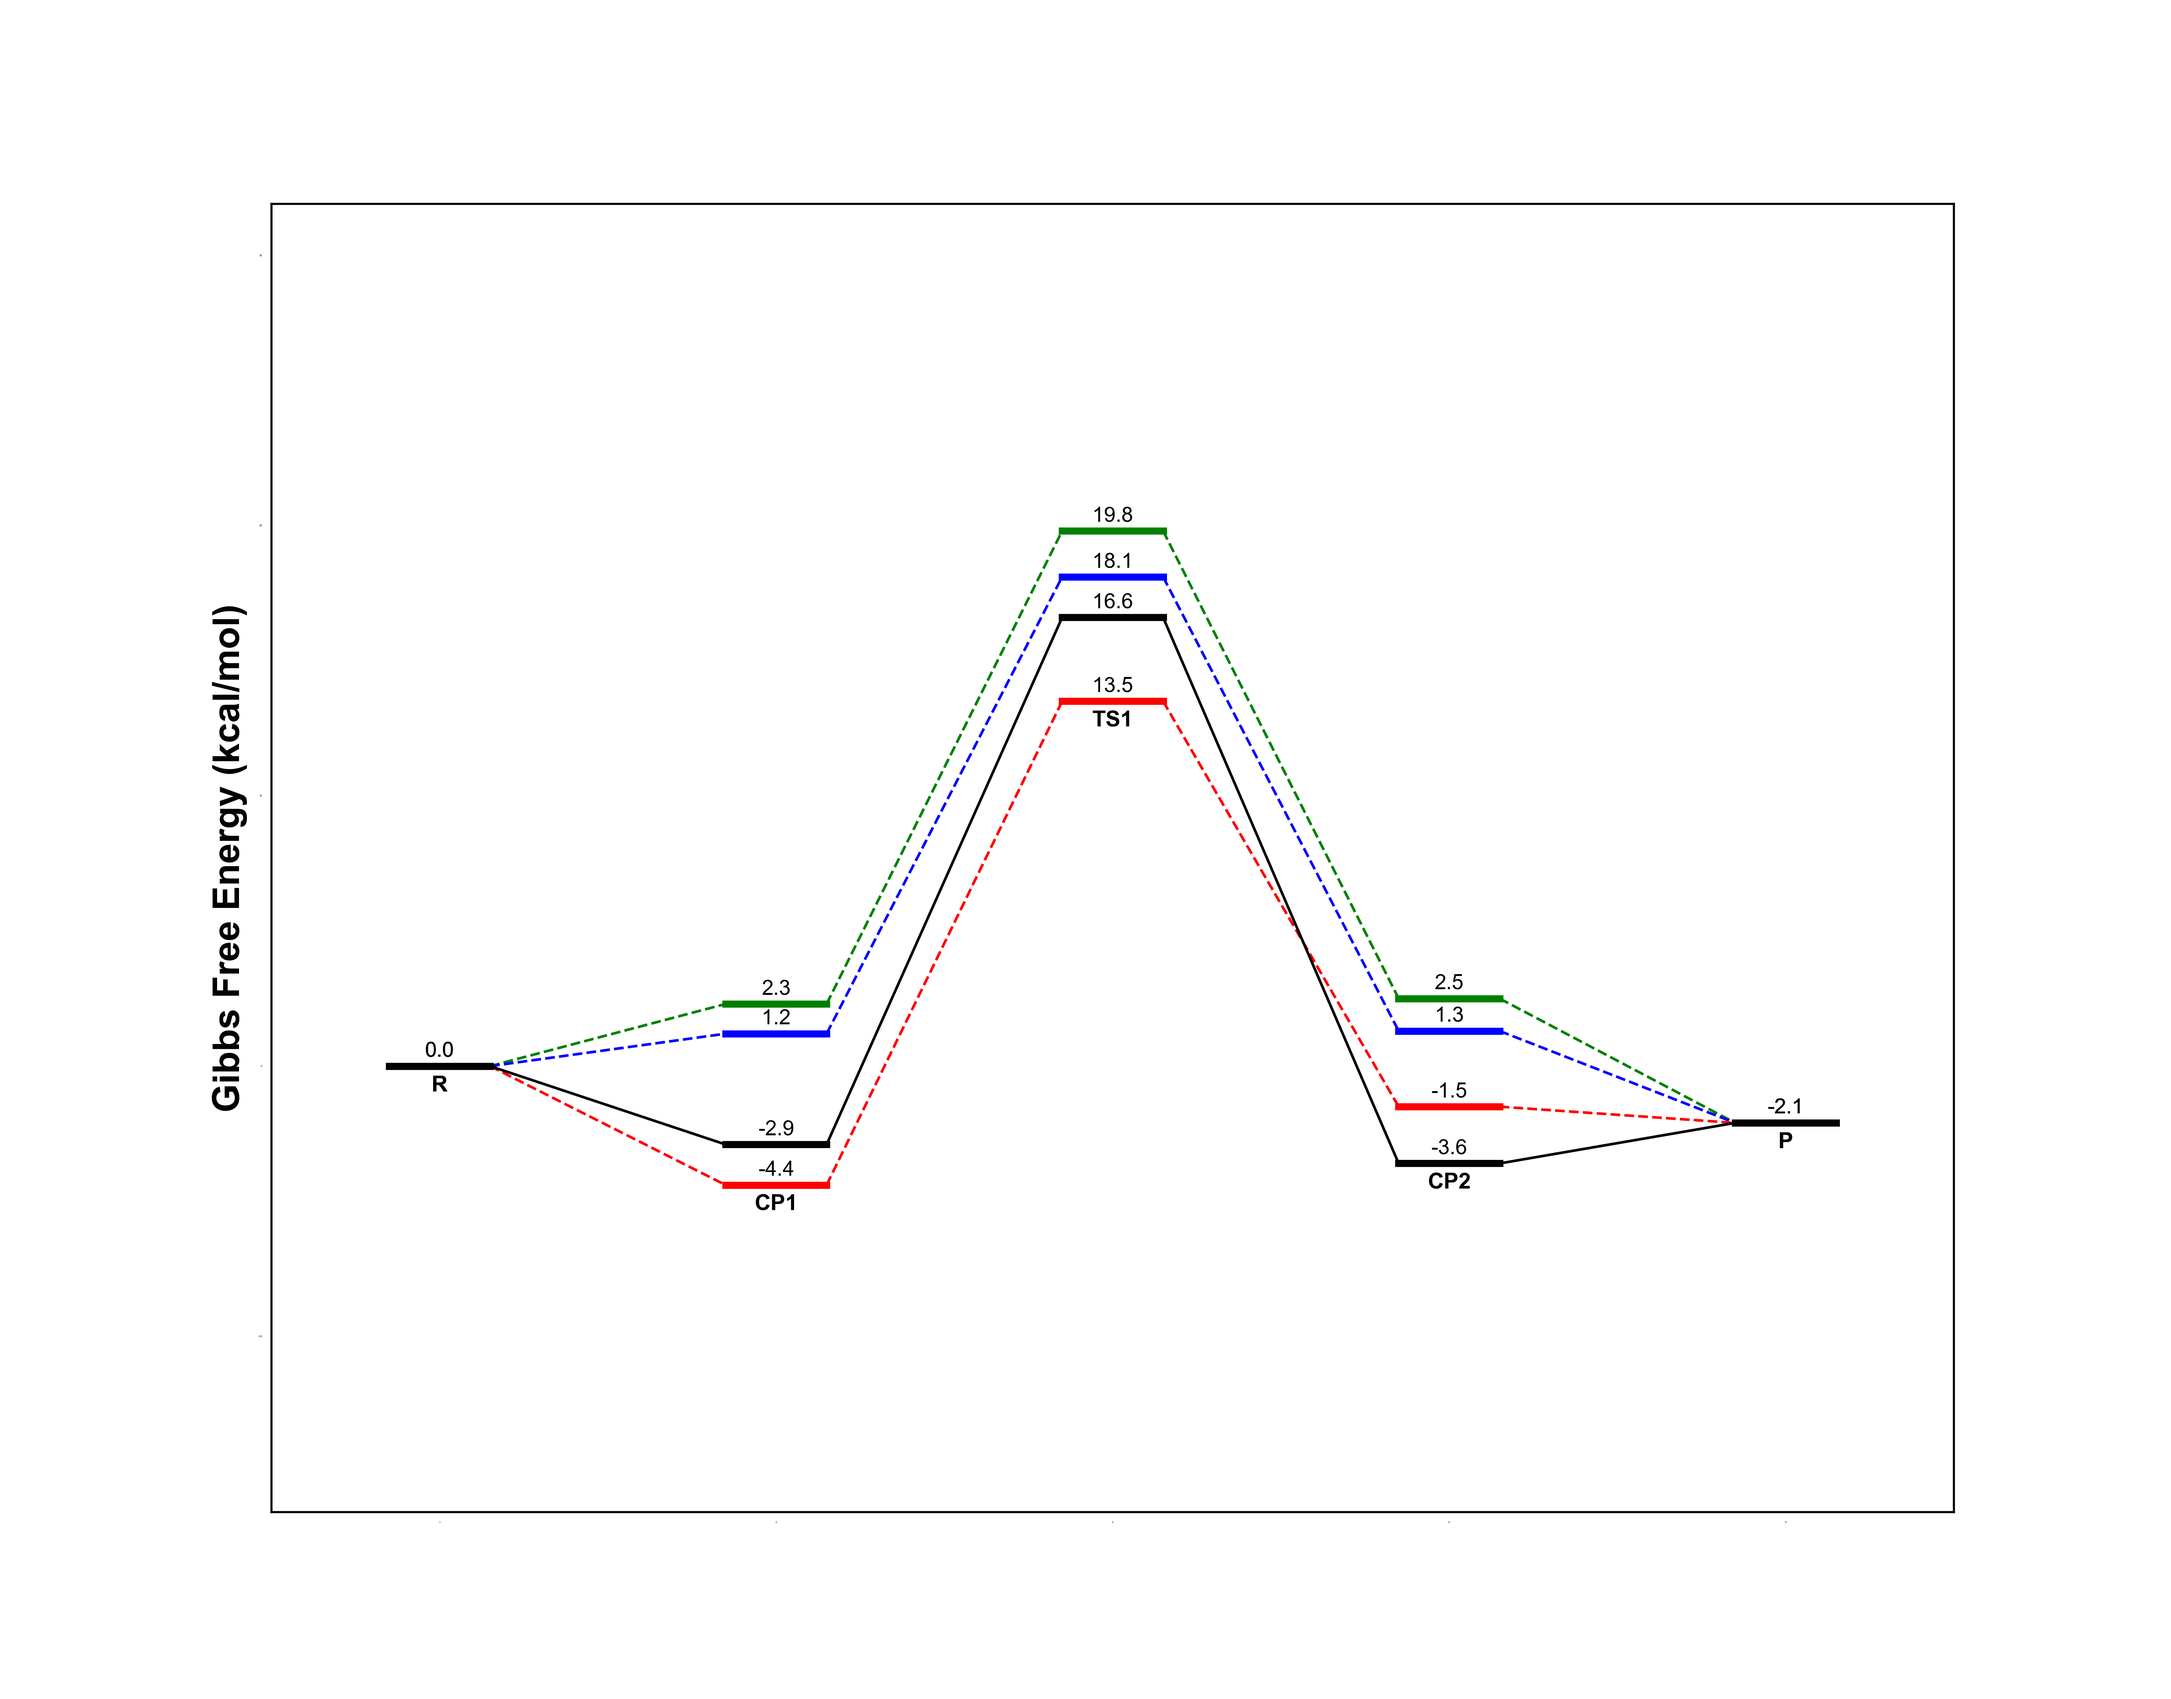
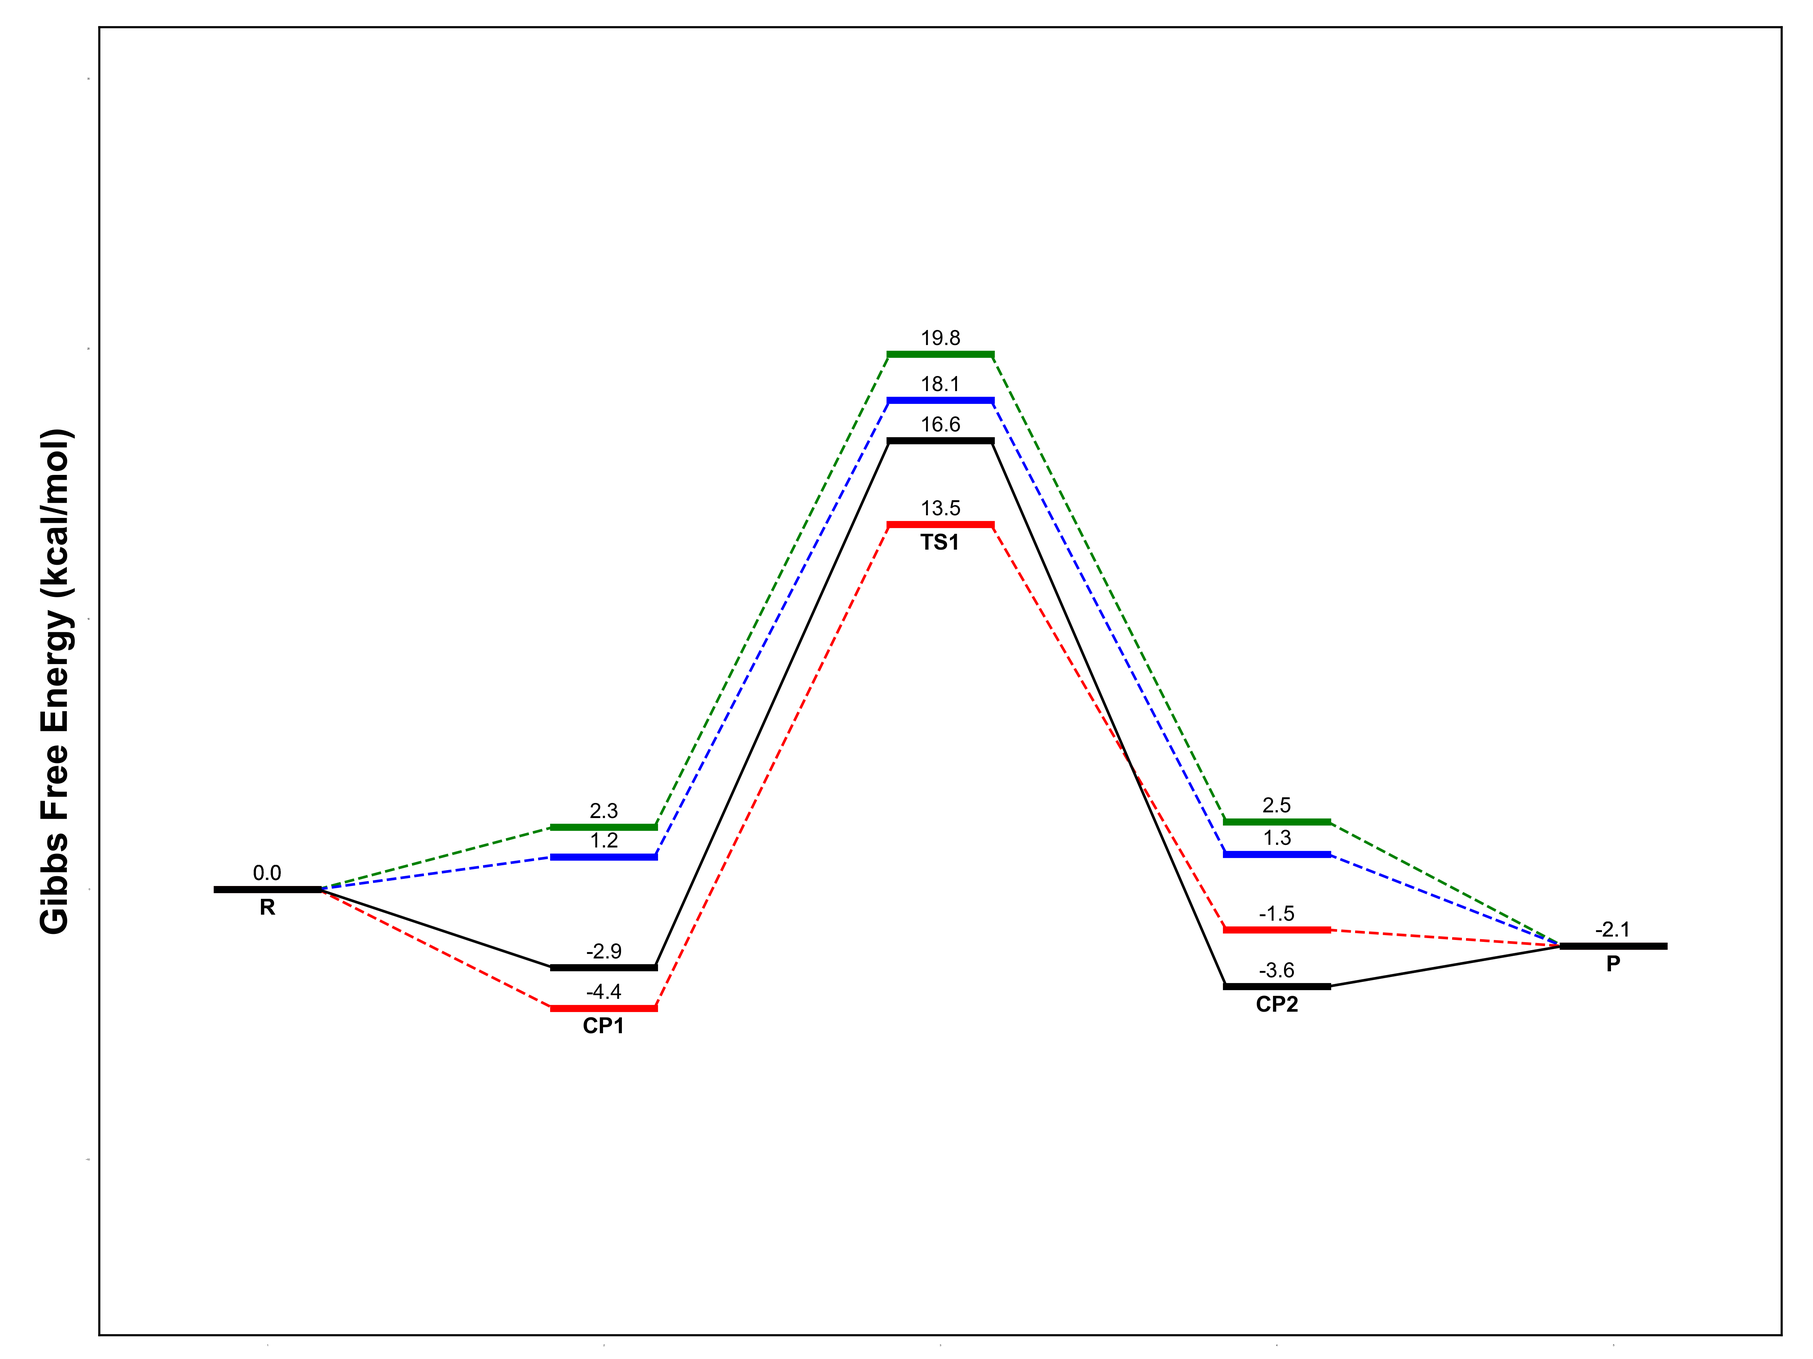
update v1.1.0

diff --git a/kimariplot/poltter.py b/kimariplot/poltter.py
@@ -55,9 +55,9 @@ def plot_line_path(ax, x, y, labels, color, style, data_list):
         ax.plot([x_new - 0.15, x_new + 0.15], [y_new, y_new], color=color, linewidth=2.7)
         # 显示数字
         ax.text(x_new, y_new + y_add_num, f"{y_new:.1f}", ha='center', va='bottom', fontsize=8,
-                fontweight='medium')
+                fontweight='medium', color=color)
         # 绘制 label
-        ax.text(x_new, y_new - y_add_num * 1.8, labels[i], ha='center', va='top', fontsize=8.5, fontweight='bold')
+        ax.text(x_new, y_new - y_add_num * 1.8, labels[i], ha='center', va='top', fontsize=8.5, fontweight='bold', color=color)
 
     # 以折线连接平台
     for i in range(len(x) - 1):
@@ -107,4 +107,4 @@ def plot_all_line_paths(data_list, dpi, size, font, output_type):
     # 保存路径为当前文件夹下的 figure 文件
     save_name = "figure." + output_type
     # 保存
-    fig.savefig(save_name, dpi=dpi)
+    fig.savefig(save_name, dpi=dpi, bbox_inches='tight')

diff --git a/kimariplot/main.py b/kimariplot/main.py
@@ -1,6 +1,6 @@
 import argparse
 
-from parser import parse
+from toml_parser import parse
 from poltter import plot_all_line_paths
 
 

diff --git a/README.md b/README.md
@@ -2,17 +2,104 @@
     <img src="figure/logo.png" width="200">
 </h1><br>
 
-
-KimariPlot 是一款基于 Python 开发的开源绘图软件，主要用于快速绘制文献中常见的能量折线图和构象曲线图。相比于其他常用的绘图软件，KimariPlot 绘制这些视图更加方便，不需要使用鼠标一直拖来拖去，这是 KimariPlot 最大的优势。
-
-除此之外，KimariPlot 还支持多种自定义图表类型和配置选项，用户可以通过文本编辑器创建和编辑 KimariPlot Input File 来配置图表。与其他绘图软件相比，KimariPlot 的使用体验更加轻松愉悦，使得用户更加专注于数据分析和可视化的过程。
+KimariPlot 是一个开源的 Python 绘图脚本，用来绘制科研中的 Free Energy Profile。KimariPlot 使用简单，可以直接从命令行读取 Toml 文件绘制 Free Energy Profile，可以不需要用鼠标一直拖来拖去，是懒人绘制 Free Energy Profile 的极佳选择。
 
 ## 安装
 
+KimariPlot 可以使用 pip 工具直接安装。
+
+```shell
+pip install kimariplot
+```
+
+与此同时还需要安装 matplotlib 以及 toml 库（暂时不需要安装 numpy 和 pandas 库，以后可能需要）。
+
+```shell
+pip install matplotlib, toml
+```
 
 ## 使用
 
+安装完 KimariPlot 之后，可以直接通过如下命令在命令行中运行。
+
+```shell
+kimariplot profile.toml
+```
+
+其中，`profile.toml` 是一个记录了颜色、曲线格式以及绘制所需要的数据的 Toml 文件。
+
+```toml
+[path.1]
+color = "black"
+style = "-"
+data = [
+    ["7", "1", "-0.7"],
+    ["TS1", "2", "22.4"],
+    ["8", "3", "10.9"],
+    ["TS2", "4", "18.0"],
+    ["9", "5", "-8.7"],
+    ["10", "6", "-10.0"]
+]
+
+[path.2]
+color = "red"
+style = "--"
+data = [
+    ["7", "1", "-0.7"],
+    ["TS3", "2", "34.9"],
+    ["11", "3", "17.2"],
+    ["TS4", "4", "23.8"],
+    ["10", "6", "-10.0"]
+]
+```
+
 <img src="figure/1.png">
+
+```toml
+[path.1]
+color = "black"
+style = "-"
+data = [
+    ["R", "1", "0.0"],
+    ["", "2", "-2.9"],
+    ["", "3", "16.6"],
+    ["CP2", "4", "-3.6"],
+    ["P", "5", "-2.1"]
+]
+
+[path.2]
+color = "red"
+style = "--"
+data = [
+    ["R", "1", "0.0"],
+    ["CP1", "2", "-4.4"],
+    ["TS1", "3", "13.5"],
+    ["", "4", "-1.5"],
+    ["P", "5", "-2.1"]
+]
+
+[path.3]
+color = "blue"
+style = "--"
+data = [
+    ["", "1", "0.0"],
+    ["", "2", "1.2"],
+    ["", "3", "18.1"],
+    ["", "4", "1.3"],
+    ["", "5", "-2.1"]
+]
+
+[path.4]
+color = "green"
+style = "--"
+data = [
+    ["", "1", "0.0"],
+    ["", "2", "2.3"],
+    ["", "3", "19.8"],
+    ["", "4", "2.5"],
+    ["", "5", "-2.1"]
+]
+```
 
 <img src="figure/2.png">
 
